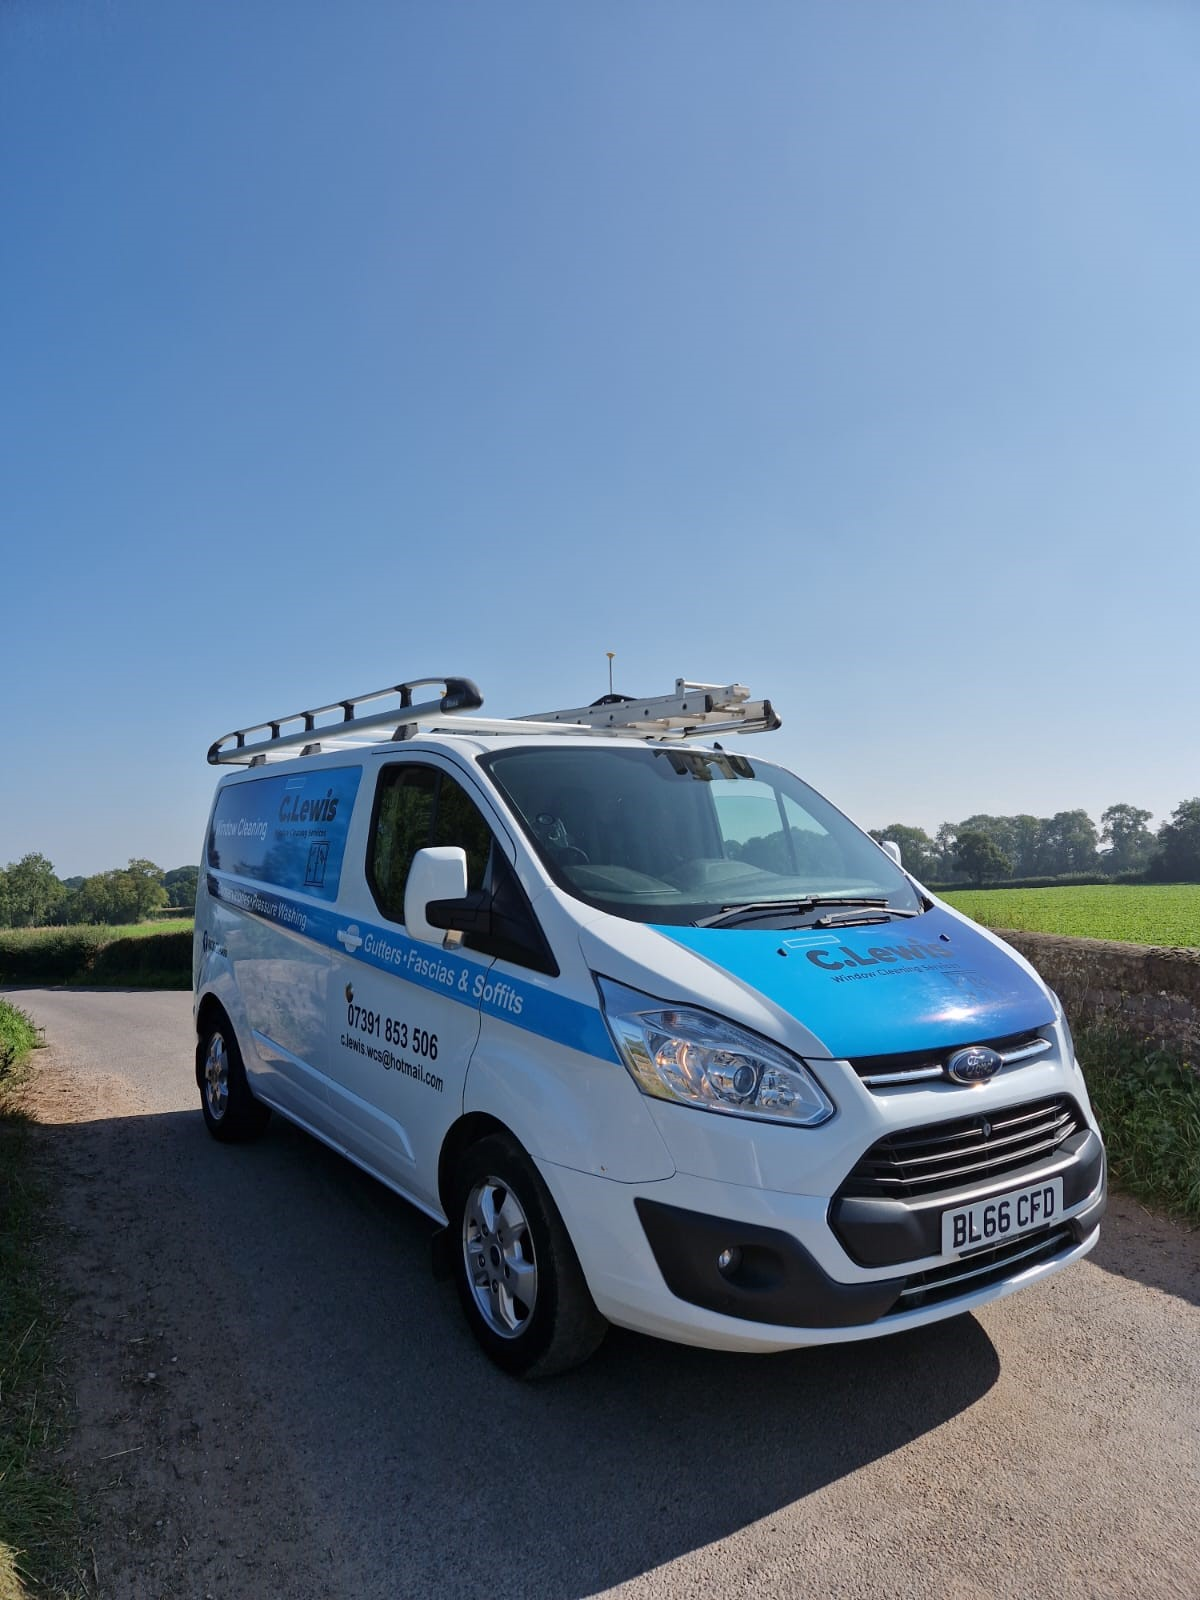
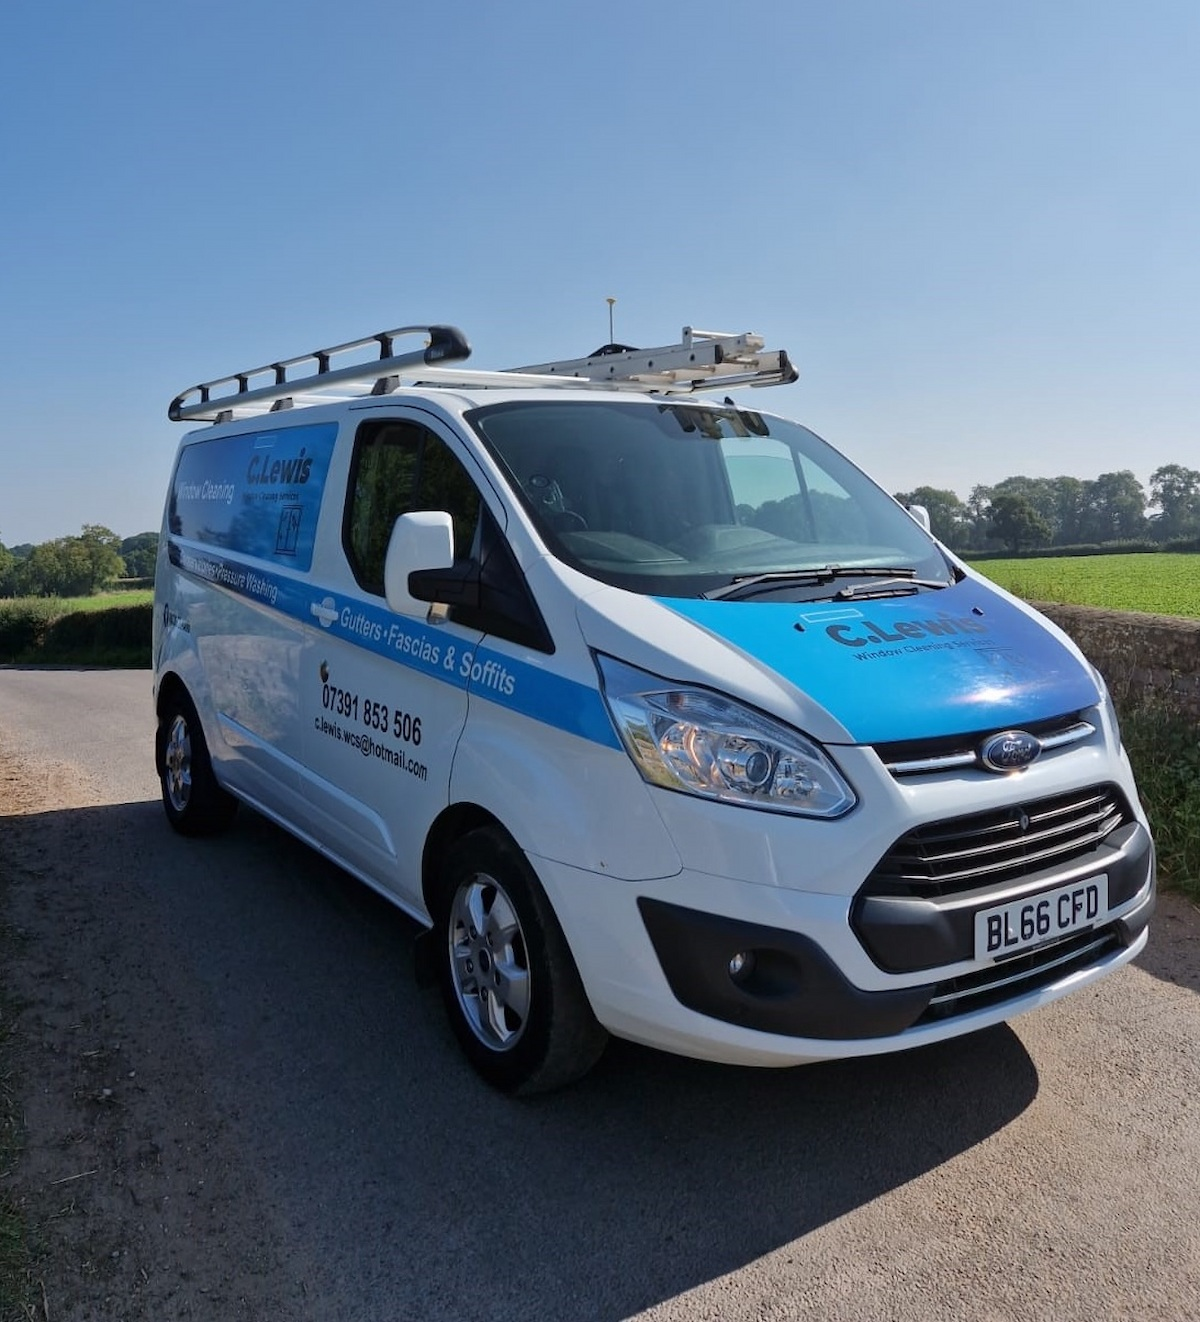
chore: testing alternate van img

diff --git a/c-lewis-exterior-cleaning/src/data/carousel-slides.ts b/c-lewis-exterior-cleaning/src/data/carousel-slides.ts
@@ -1,5 +1,5 @@
-import van5 from "../assets/images/carousel/van5-min.webp";
-import van5Mobile from "../assets/images/carousel/van5-min-mobile.webp";
+import van5 from "../assets/images/vans/van1.jpg";
+import van5Mobile from "../assets/images/vans/van1.jpg";
 import stockPressureWash from "@/assets/images/stock/pressure-wash.webp";
 import stockPressureWashMobile from "@/assets/images/stock/pressure-wash-mobile.webp";
 import r1 from "../assets/images/roof-cleaning/rc4.webp";
